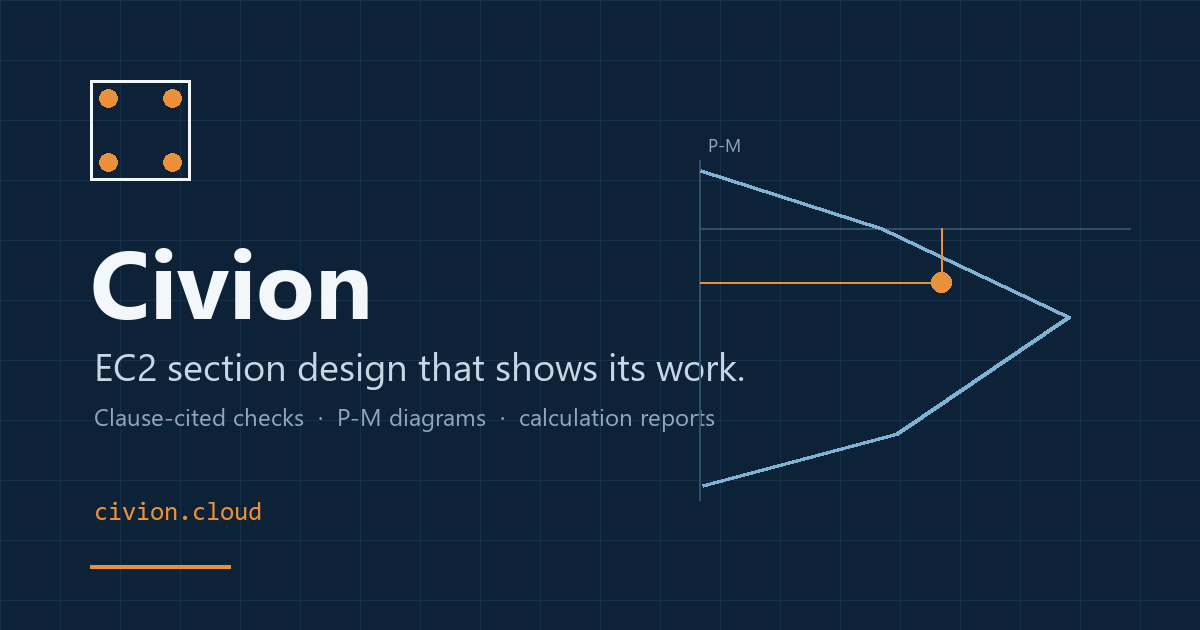
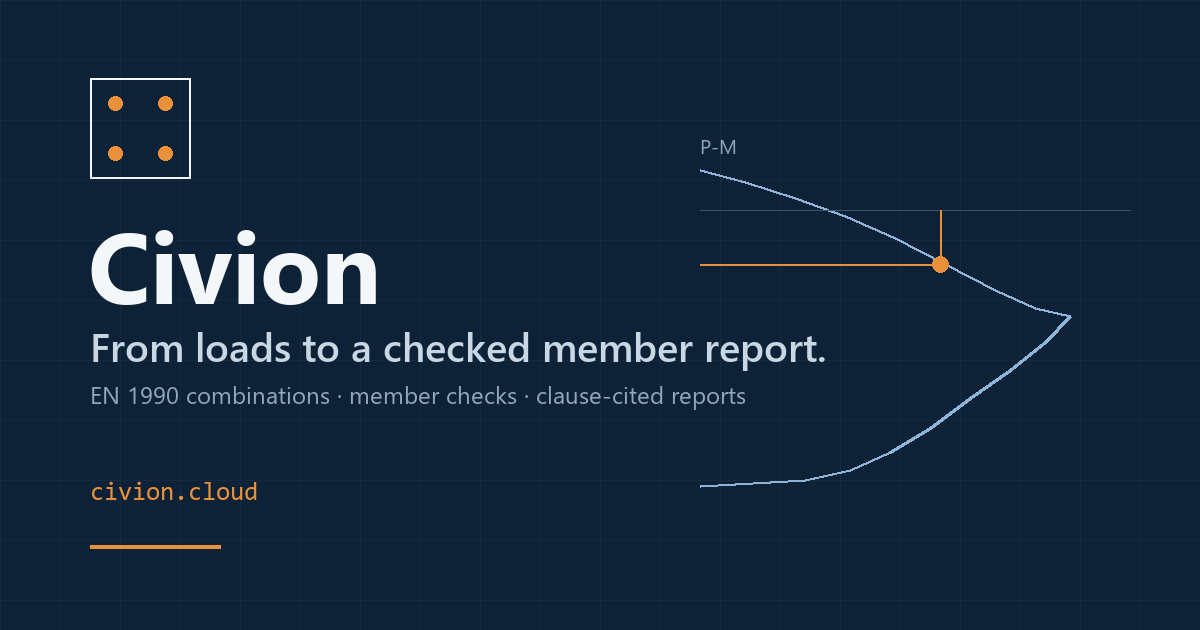
content: refresh OG image and column test count

diff --git a/verification.html b/verification.html
@@ -58,7 +58,7 @@
           <tr><td>Cover</td><td>4.2 / 4.4.1</td><td>Table 4.4N; Eqs (4.1), (4.2)</td></tr>
         </tbody>
       </table>
-      <p class="verify-fine">269 automated tests, including the published worked examples in
+      <p class="verify-fine">271 automated tests, including the published worked examples in
       blog posts #2, #7 and #8. The clause index was checked against the CEN English 2004
       text on 17 November 2026.</p>
 
